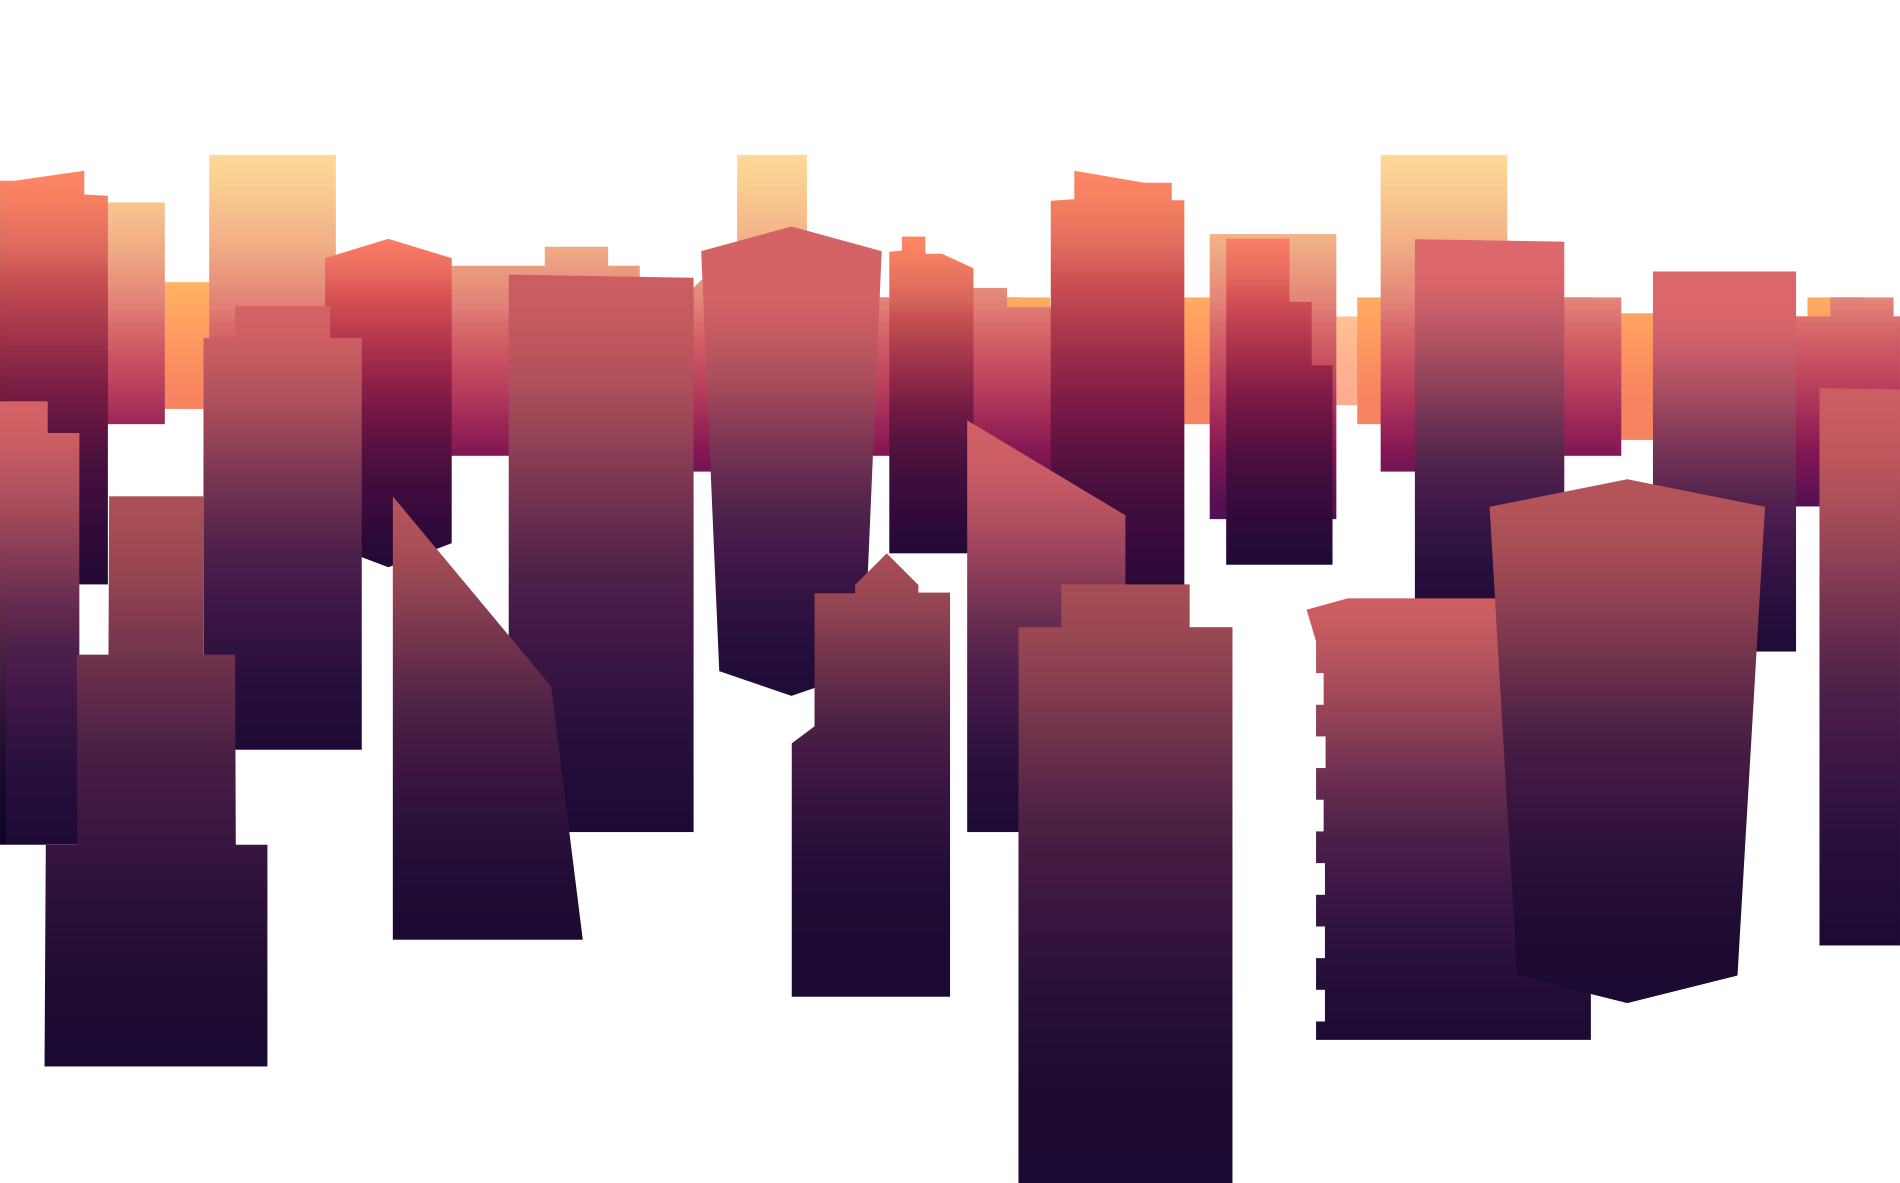
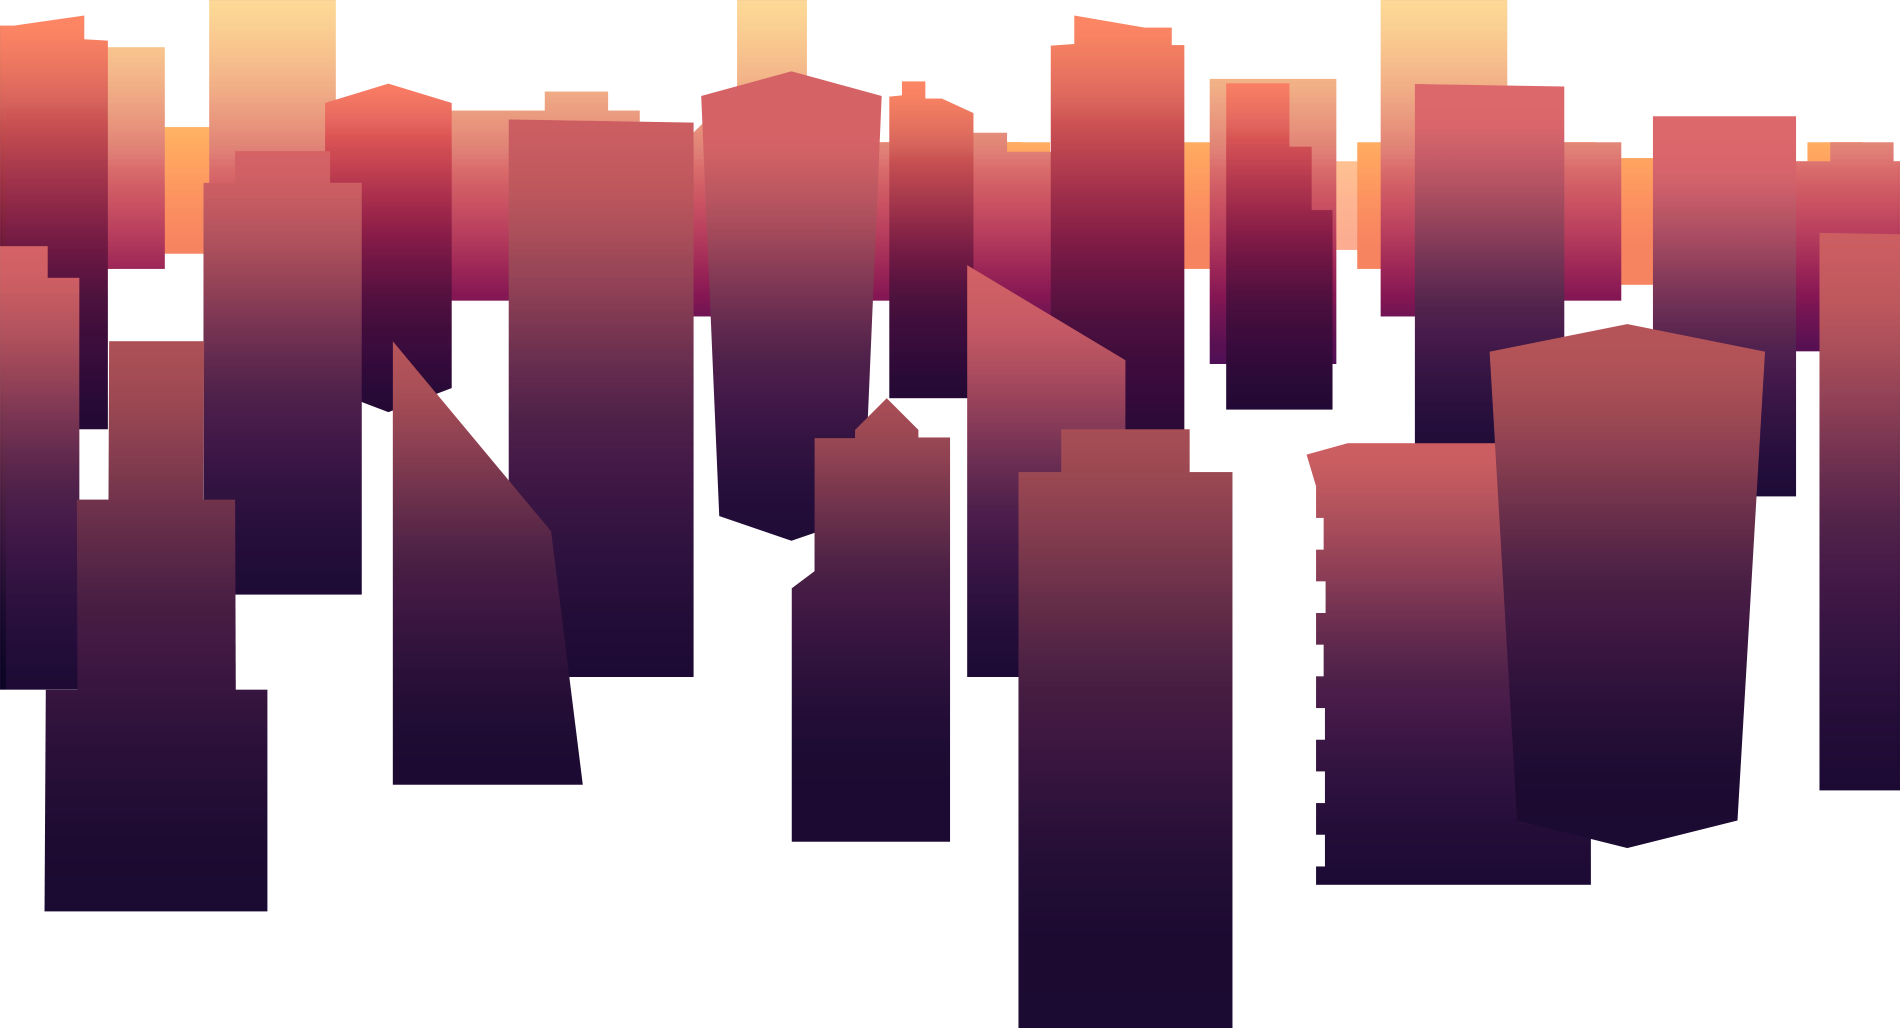
fix 1st frame

diff --git a/index.html b/index.html
@@ -16,13 +16,13 @@
     </head>
     <body>
         <div class="wrap">
-            <svg class="frame" width="1900" height="600" viewBox="0 0 1900 950">
-                <image class="layer" width="1900px" height="2850px" x="0px" y="-200px" xlink:href="img/f1l5.jpg" />
-                <image class="layer" width="1900px" height="1183px" x="0px" y="100px" xlink:href="img/f1l4.png" />
-                <image class="layer" width="1900px" height="1305px" x="0px" y="200px" xlink:href="img/f1l3.png" />
-                <image class="layer" width="1900px" height="1634px" x="0px" y="300px" xlink:href="img/f1l2.png" />
-                <image class="layer" width="1900px" height="724px" x="0px" y="400px" xlink:href="img/f1l1.png" />
-                <text class="l153" x="500" y="250" fill="#550055" style="font-family: Helvetica; font-size: 48px;font-weight: normal;">Как стать героем</text>
+            <header>Кто такой герой</header>
+            <svg class="frame" width="1900" height="2250" viewBox="0 0 1900 2250">
+                <image class="layer" width="1900px" height="2850px" x="0px" y="0" xlink:href="img/f1l5.jpg" />
+                <image class="layer" width="1900px" height="1028px" x="0px" y="520px" xlink:href="img/f1l4.png" />
+                <image class="layer" width="1900px" height="1305px" x="0px" y="630px" xlink:href="img/f1l3.png" />
+                <image class="layer" width="1900px" height="1634px" x="0px" y="785px" xlink:href="img/f1l2.png" />
+                <image class="layer" width="1900px" height="724px" x="0px" y="820px" xlink:href="img/f1l1.png" />
             </svg>
             <!--
             <svg class="frame1" width="1200px" height="400px" viewBox="0 0 1200 400" clip-path="url(#clip1)">

diff --git a/js/functions.js b/js/functions.js
@@ -1,23 +1,34 @@
 $(function(){
     var frame = $('.frame')
       , frameHeight = frame.height()
-      , frameTop = frame.offset().top;
-    var wScroll = 0
+      , frameTop = frame.offset().top
+      , wScroll = 0
       , screen = $(window)
       , w = screen.width()
       , h = screen.height()
-      , k = w/1200;
-    frame
-        .attr('width'
-          , w)
-        .attr('height'
-          , frame.attr('height')*k);
-    /*
+      , k = 1900/w;
+    resized();
+    
+    screen.resize(function(){
+        w = screen.width();
+        h = screen.height();
+        resized();
+    });
+    
     screen.scroll(function(){
         wScroll = $(this).scrollTop();
         //обход списка фреймов
         //animate(frame);
     });
+    
+    function resized(){
+        frame
+            .attr('width'
+              , w)
+            .attr('height'
+              , frame.attr('height')/k)
+    }
+    
     function animate(frame){
         var frameHeight = frame.height()
           , frameTop = frame.offset().top;
@@ -29,5 +40,5 @@ $(function(){
             $('.l41').attr('x', (wScroll-frameTop)/10 +'%');
             console.log(frameTop);
         }
-    }*/
+    }
 });

diff --git a/css/style.css b/css/style.css
@@ -1,7 +1,17 @@
 body, html{
     background:             #000000;
 }
-
+header{
+    position:               absolute;
+    top:                    1485px;
+    color:                  #ffffff;
+    text-transform:         uppercase;
+    z-index:                2;
+    font-size:              60px;
+    font-family:            Helvetica, sans-serif, Arial;
+    text-align:             center;
+    width:                  100%;
+}
 svg{
     //line-height:            0;
 }
